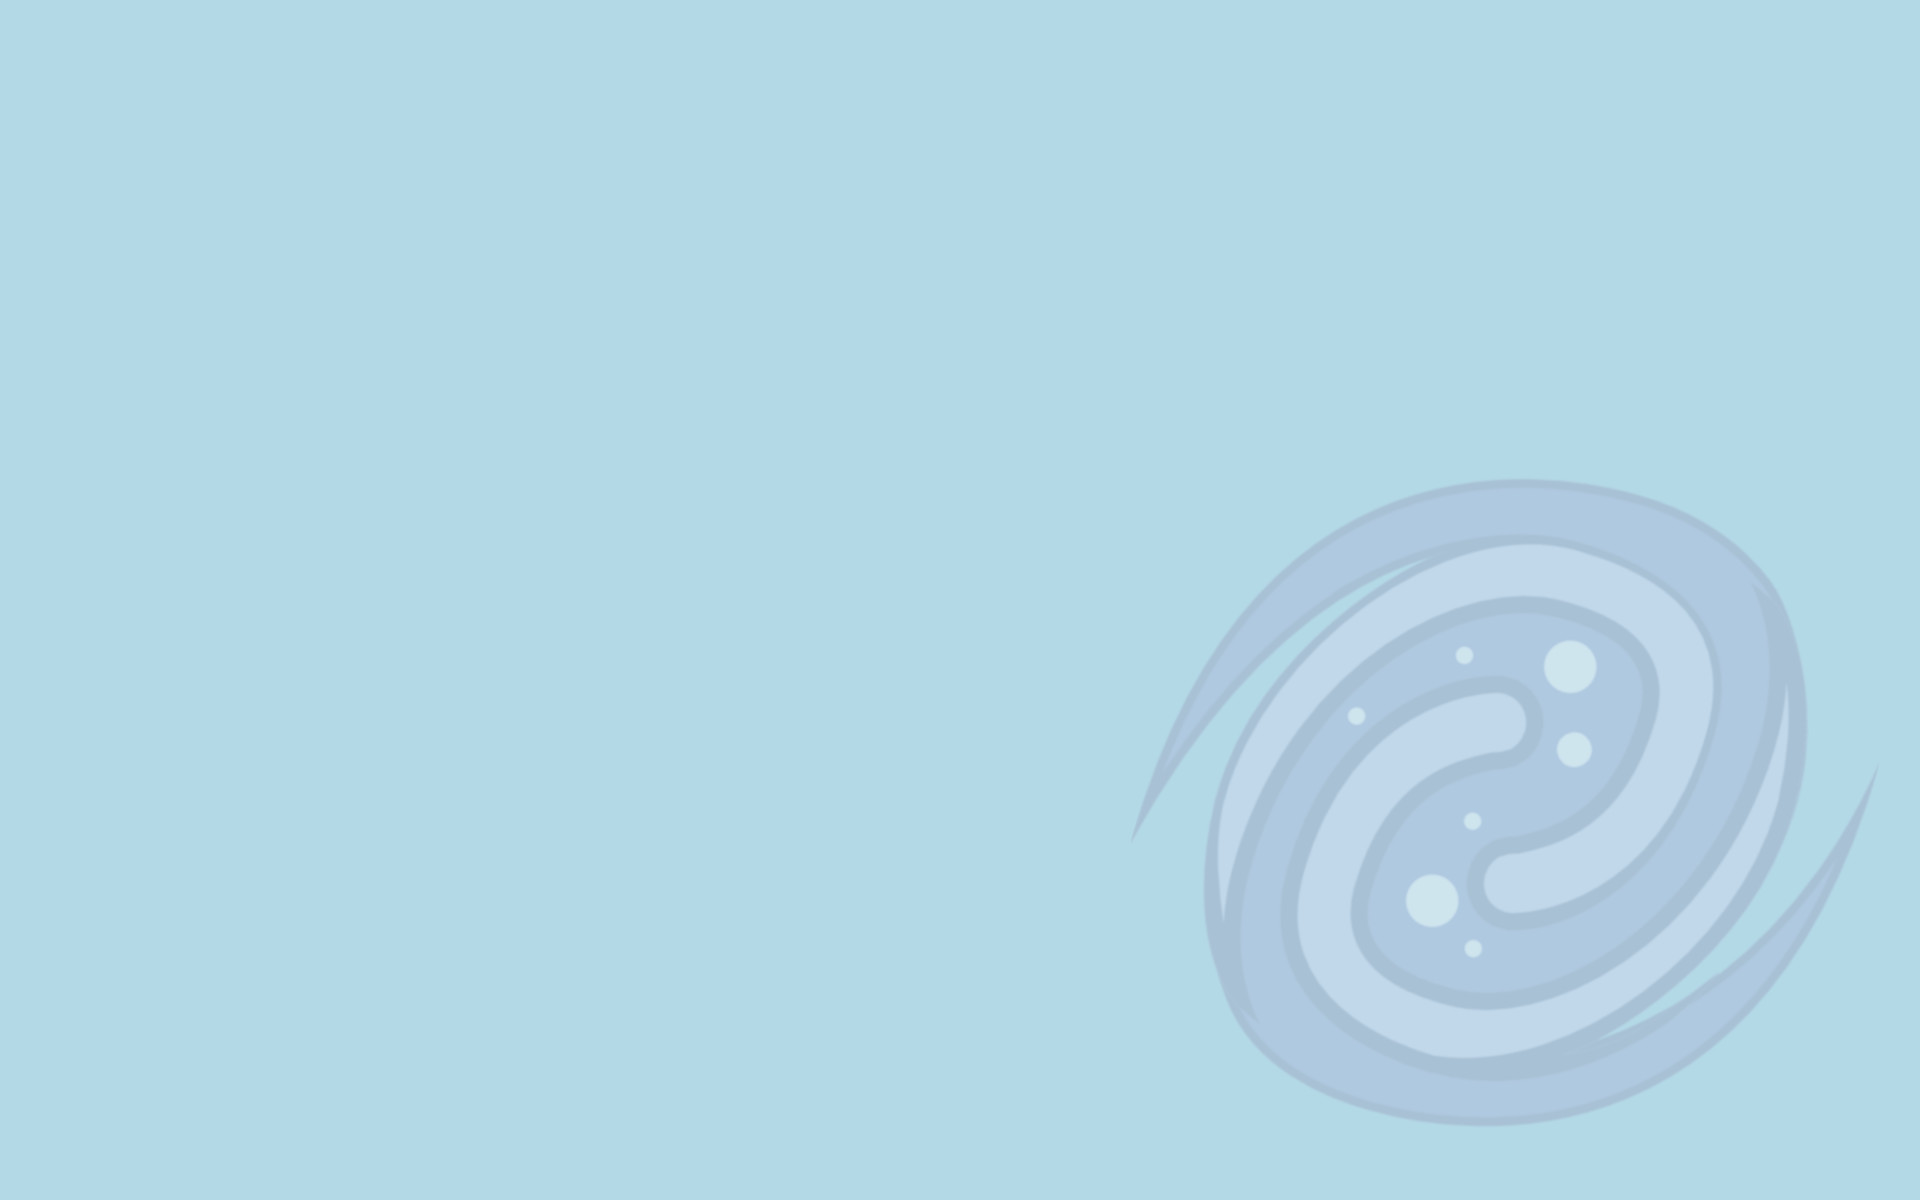
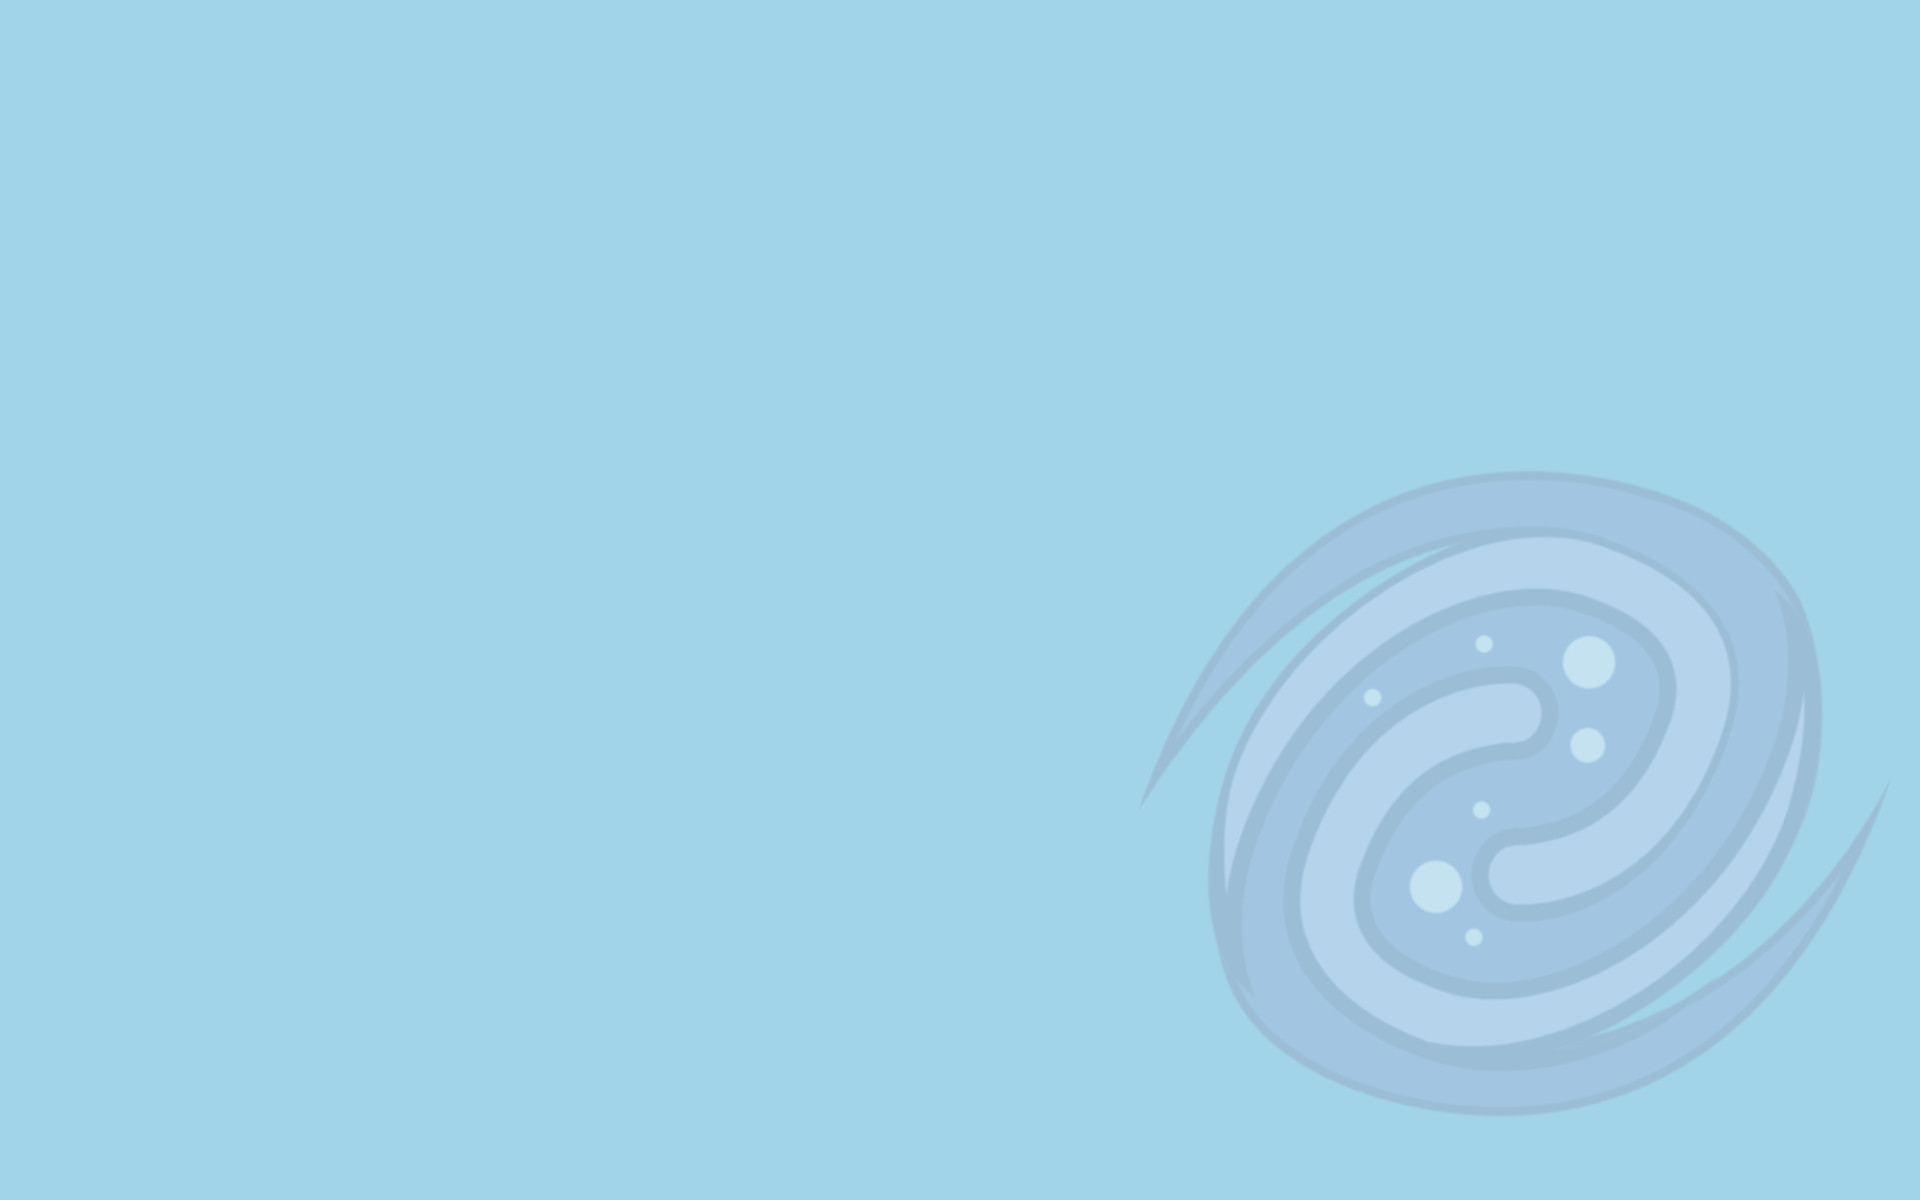
Update backgrounds

diff --git a/css/styles.css b/css/styles.css
@@ -3,7 +3,7 @@
   --violet: #A39DD2;
   --black: #19191E;
   --purple: #332453;
-  --blue: #B3D8E6;
+  --blue: #A1D4E8;
   --white: #FFFFFF;
 }
 
@@ -105,18 +105,24 @@
 }
 .andromeda {
   background-image: url('../images/andromeda.jpg');
+  background-size: cover;
+  background-repeat: no-repeat;
 }
 #black-eye {
   background-color: var(--black);
 }
 .black-eye  {
   background-image: url('../images/black-eye.jpg');
+  background-size: cover;
+  background-repeat: no-repeat;
 }
 #fireworks {
   background-color: var(--purple);
 }
 .fireworks {
   background-image: url('../images/fireworks.jpg');
+  background-size: cover;
+  background-repeat: no-repeat;
 }
 #milky-way {
   border-bottom-left-radius: 5px;
@@ -125,6 +131,8 @@
 }
 .milky-way {
   background-image: url('../images/milky-way.jpg');
+  background-size: cover;
+  background-repeat: no-repeat;
 }
 
 #footer {
